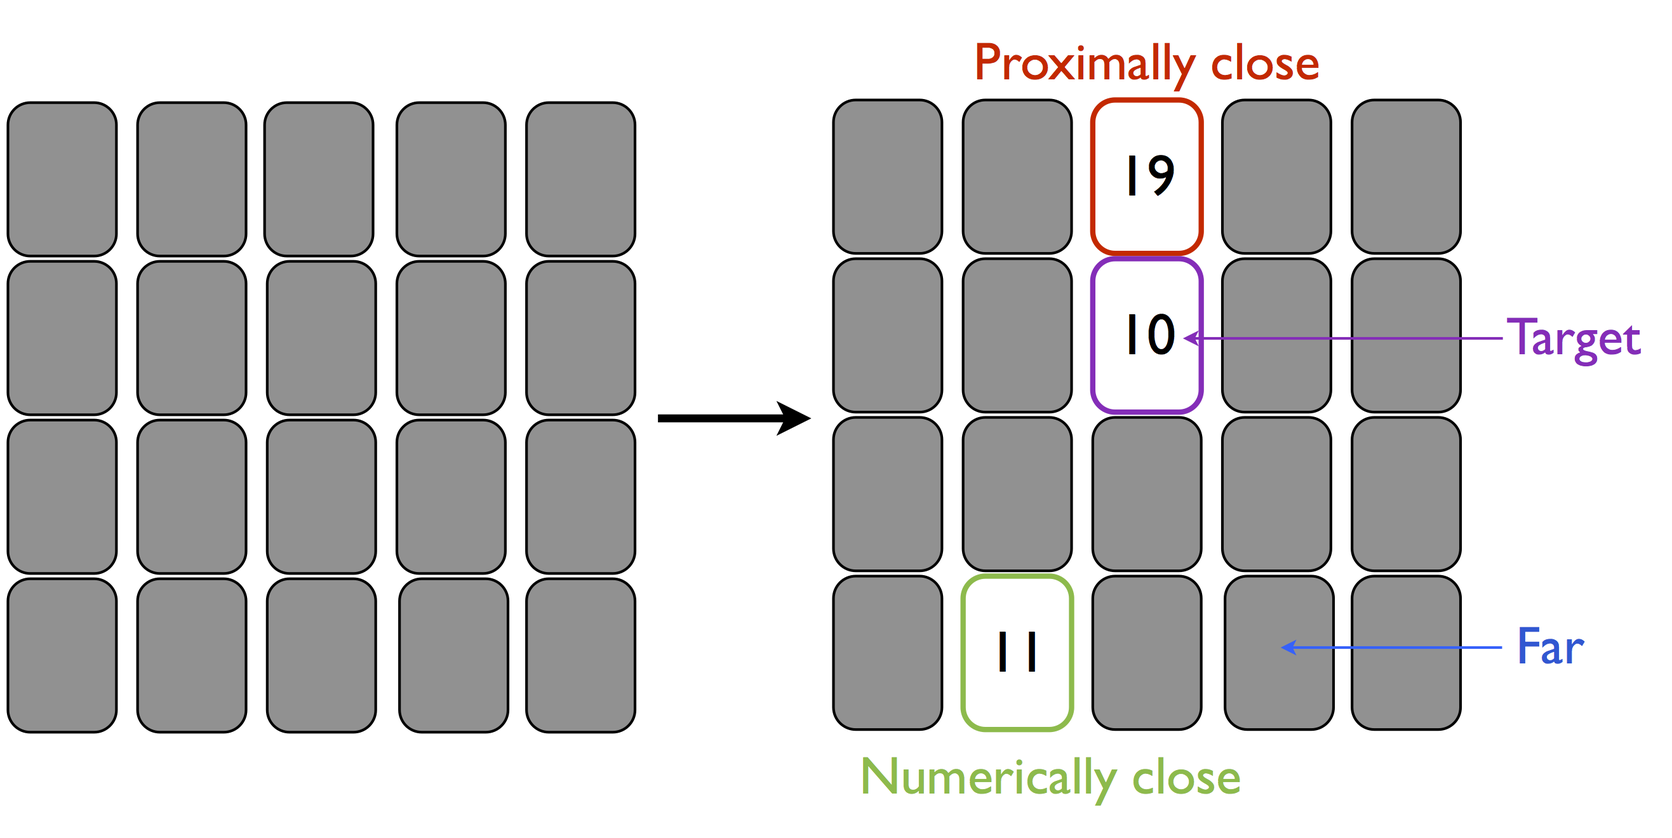
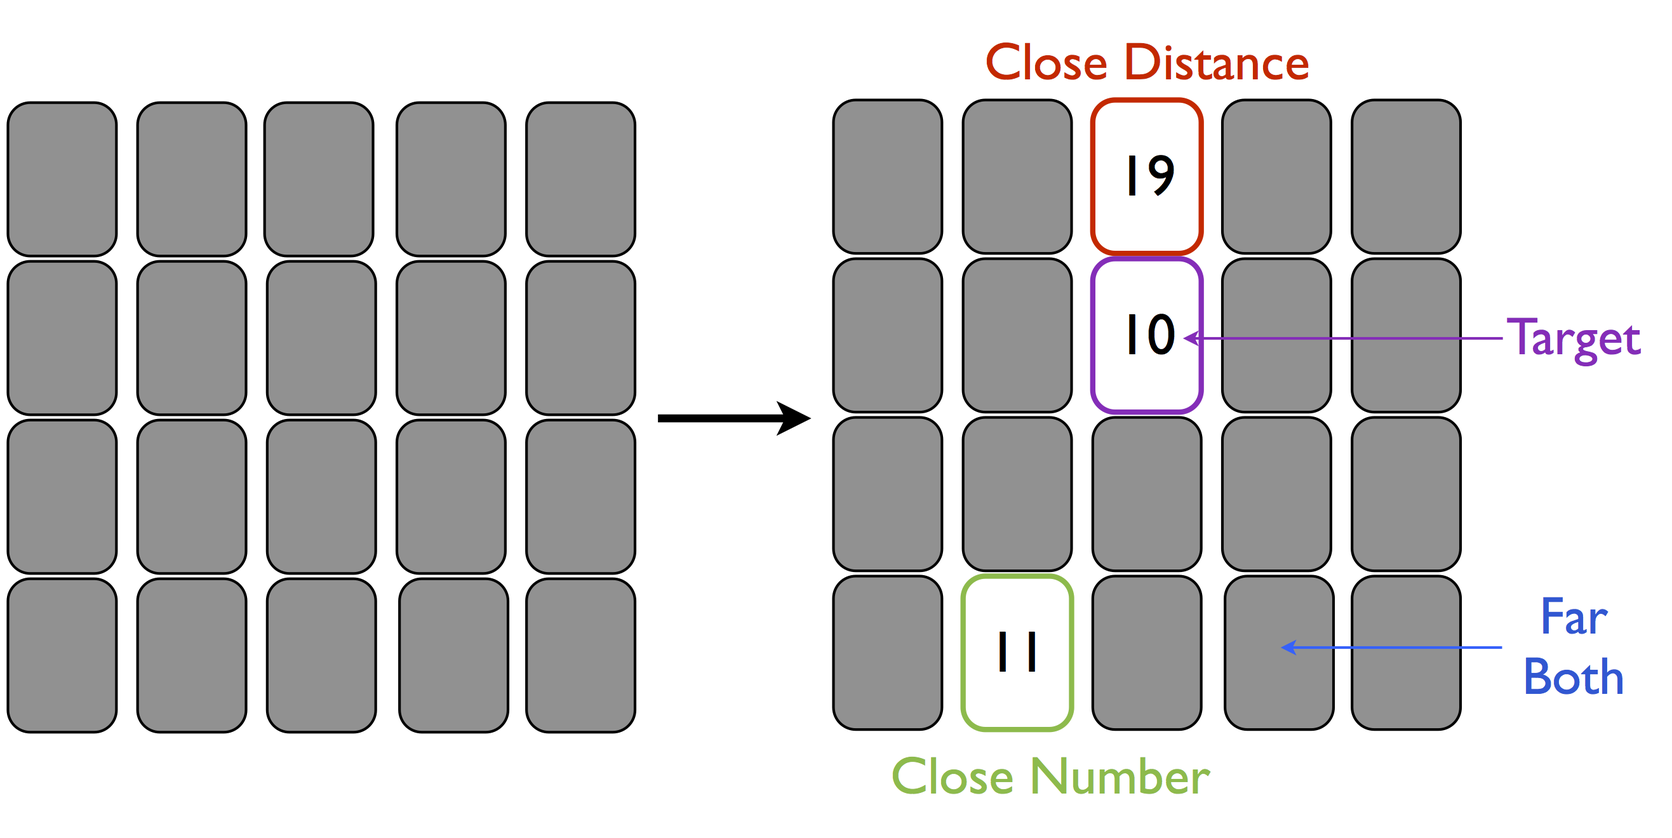
some changes to graphs, still working

Changed region(s): [[0.4983, 0.9008, 0.7474, 0.9629], [0.5606, 0.0311, 0.8097, 0.0932], [0.9032, 0.7144, 0.9654, 0.8386]]

diff --git a/Writeup/cfDistance.tex b/Writeup/cfDistance.tex
@@ -55,7 +55,10 @@
 \maketitle
 
 \begin{abstract}
-Near misses---missing a desired outcome by a small margin---are more emotionally intense than normal misses, even though the outcomes tend to be no different, and people readily accord near-miss effects when reasoning about others. Yet there are still open questions: what are the distance dimensions along which near misses are judged, and how do people incorporate near misses into more general affective cognition, or reasoning about emotion? In this paper we show that intuitive theories of emotion seem to weigh near-misses even for random events, and this is driven by the semblance of action-outcome contingency. Finally, we incorporate near misses into a more general model of affective cognition, and quantify the psychological cost of a near-miss relative to winning and losing.
+Observers often judge agents to be more unhappy when the agents miss a desired outcome by a small margin, compared to a large margin. This has been shown in situations where the agents have control over their situation, such as in missing planes. Here, we show that intuitive theories of emotion incorporate near-misses even for random events, and this might be due in part to the illusion of control over random events. Finally, we integrate near-misses into a more general model of affective cognition, and quantify the psychological cost of a near-miss relative to winning and losing.
+
+
+%Near misses---missing a desired outcome by a small margin---are more emotionally intense than normal misses, even though the outcomes tend to be no different, and people readily accord near-miss effects when reasoning about others. Yet there are still open questions: what are the distance dimensions along which near misses are judged, and how do people incorporate near misses into more general affective cognition, or reasoning about emotion? In this paper we show that intuitive theories of emotion seem to weigh near-misses even for random events, and this is driven by the semblance of action-outcome contingency. Finally, we incorporate near misses into a more general model of affective cognition, and quantify the psychological cost of a near-miss relative to winning and losing.
 
 \textbf{Keywords:} 
 Near Miss; Counterfactual Distance; Lay Theories; Emotion
@@ -67,6 +70,8 @@ Near Miss; Counterfactual Distance; Lay Theories; Emotion
 --- English Idiom
 \end{quote}
 
+Evidence suggests that contrary to the above idiom, close counts---\textit{emotionally}.
+
 
 	When Rob achieves a desired outcome, such as winning a soccer match, we intuitively know that he would feel positive. Conversely, when Rob loses, or otherwise fails to achieve an outcome, we can reason that he would feel negative. If he just fails to achieve the outcome by a small margin, a \textit{near-miss}, such as losing a soccer game by a single goal, we intuitively recognize that he actually would feel worse than if he had missed by a larger margin, because the outcome was ``so close" to winning. Penalty shootouts in soccer provides the most exaggerated of such near-miss scenarios: the losing team often loses because of one missed ball, sometimes an inch shy of escaping the goalkeeper's hands. These details add much more emotional intensity to all agents involved, more so than just a simple loss. Contrary to the above idiom, close counts---\textit{emotionally}.
 
@@ -77,15 +82,15 @@ Near Miss; Counterfactual Distance; Lay Theories; Emotion
 	Psychologists have long known that near-misses form an integral, but surprisingly not well understood part of affective cognition \cite{Johnson1986, Gleicher1990}. Most of this work falls under the broader category of counterfactual thinking, or thinking about ``what might have been" \cite{Bryne2002,McMullen2002, Medvec1997, Roese1997}. Near-miss counterfactuals are particularly engaging, because these possible worlds almost happened: they were separated from the current world by some small ``distance". Consider \citeA{Kahneman1982}'s classic example of Mr Tees, who missed his plane by 5 minutes, and Mr Crane, who missed his plane by 30 minutes. Both men were delayed due to traffic (i.e., it was somewhat out of their control), but people consistently and reliably judge the person who narrowly missed his plane to feel much worse than the one who missed it by a wider margin. One proposed \textit{causally-relevant} explanation for the near miss effect is that of controllability: Mr Tees could easily think of actions he could have done differently (``if only I woke up ten minutes earlier") that would have led to him catching the plane. \red{NDG: controllability isn't explained clearly here, and no alternative is given, so it isn't clear why you mention it.}
 
 
-% Can this paragraph fit here? or should it belong between the end of the Intro and the start of Expt 1, in a section called "Predictions" (that was the way I had it initially).
-	Based upon findings from previous work \cite{Kahneman1982, Johnson1986, Gleicher1990}, we can list several predicted properties of near-miss effects. See Fig. \ref{PredictionFig} for an illustration, where we have included both near-miss and just-hit effects, although we focus on the former in this paper. First, the near-miss effect should be \textit{non-linear} with respect to distance to the desired outcome---the near miss effect should only occur at small distances, and should matter increasingly more with increasingly smaller distances. Second, the magnitude of the near-miss effect should be \textit{small but proportional} to the difference between the desired and undesired outcome.
-\red{NSG: these properties are predicted from your graph, but it's not clear where your graph came from -- it sounds like you're just making them up...}
-
-\begin{figure}[htb!]
-\includegraphics[width=\columnwidth]{images/predictionFig.png}
-\caption{ Prediction. A plot of emotional valence against ``distance" to the counterfactual world, where the unshaded region represents the desired outcome, and the shaded region, the ``miss" region. Near misses and ``just-hits" are predicted to be non-linear variations of valence at small distances to the miss-hit boundary.}
-\label{PredictionFig}
-\end{figure}
+%% Can this paragraph fit here? or should it belong between the end of the Intro and the start of Expt 1, in a section called "Predictions" (that was the way I had it initially).
+%	Based upon findings from previous work \cite{Kahneman1982, Johnson1986, Gleicher1990}, we can list several predicted properties of near-miss effects. See Fig. \ref{PredictionFig} for an illustration, where we have included both near-miss and just-hit effects, although we focus on the former in this paper. First, the near-miss effect should be \textit{non-linear} with respect to distance to the desired outcome---the near miss effect should only occur at small distances, and should matter increasingly more with increasingly smaller distances. Second, the magnitude of the near-miss effect should be \textit{small but proportional} to the difference between the desired and undesired outcome.
+%\red{NSG: these properties are predicted from your graph, but it's not clear where your graph came from -- it sounds like you're just making them up...}
+%
+%\begin{figure}[htb!]
+%\includegraphics[width=\columnwidth]{images/predictionFig.png}
+%\caption{ Prediction. A plot of emotional valence against ``distance" to the counterfactual world, where the unshaded region represents the desired outcome, and the shaded region, the ``miss" region. Near misses and ``just-hits" are predicted to be non-linear variations of valence at small distances to the miss-hit boundary.}
+%\label{PredictionFig}
+%\end{figure}
 
 
 
@@ -159,7 +164,7 @@ Finally, how much does a near-miss cost psychologically? That is, what is the si
 
 
 
-\section{Experiment 1: Dice vignette}
+\section{Experiment 1: Near Miss effects in a random event}
 
 In Experiment 1, we tested if participants would incorporate near-miss effects in their judgment of emotions when agents were playing a luck-based game, where the near-misses are along a causally-irrelevant dimension. Here we used a dice game; because the process of rolling dice is entirely random, the numerical closeness of one's outcome compared to the desired outcome is not relevant. \red{NDG: i tweaked this \P, but should be adjusted based on how we clarify causal relevance in intro.}
 
@@ -167,8 +172,7 @@ In Experiment 1, we tested if participants would incorporate near-miss effects i
 
 \subsubsection{Procedures.} Participants read about two characters, Jacob and Alex, who were playing a gambling game, and both needed to roll a 6 on a die to win. Jacob rolled a 1, while Alex rolled a 5. Participants then answered attention check questions (``what did X roll?") before attributing emotions along six categories (\textit{happiness}, \textit{sadness}, \textit{relief}, \textit{regret}, \textit{contentment} and \textit{disappointment})  to each character. Finally, they answered a three-alternative forced choice question: ``Which character felt worse?", and were allowed to endorse ``they both felt equally bad" as an option. They were allowed to give a free-response justification for their choice.
 
-\subsubsection{Results.} Three participants were excluded for failing the attention check. Participants rated the near miss character (the character who rolled the 5) as feeling significantly more disappointed ($t(146)=2.17, p=0.03$), but no different on the other emotions. In the forced-choice question, a large majority (107/147 = 73\%) rated both characters as feeling equally bad. Among the remaining participants, significantly more participants rated the character who rolled the 5 (the near miss character) as feeling worse (N=30) compared to the character who rolled a 1 (N=10; exact binomial test $p=.002$; bootstrapped simulation with 10,000 iterations on full sample, $p=0.0007$).
-\red{NDG: point to fig 2...}
+\subsubsection{Results.} Three participants were excluded for failing the attention check. Participants rated the near miss character (the character who rolled the 5) as feeling significantly more disappointed ($t(146)=2.17, p=0.03$), but no different on the other emotions. In the forced-choice question, a large majority (107/147 = 73\%) rated both characters as feeling equally bad. Among the remaining participants, significantly more participants rated the character who rolled the 5 (the near miss character) as feeling worse (N=30) compared to the character who rolled a 1 (N=10; exact binomial test $p=.002$; bootstrapped simulation with 10,000 iterations on full sample, $p=0.0007$) (See Fig. \ref{Expt1ResultFig}.)
 
 \begin{figure}[htb!]
 \includegraphics[width=\columnwidth]{images/Expt1results.png}
@@ -189,40 +193,42 @@ Thus, we find that while a large majority of participants said that both charact
 
 \section{Experiment 2: Changing the relevant dimensions}
 
-We designed Experiment 2 to dissociate closeness effects along different dimensions. Using a card guessing task, we manipulated the task-relevance of both the positions of the cards or the numbers written on the cards, and showed that only near-miss effects along the task relevant-dimension are incorporated into observers' lay theory of emotion. \red{NDG: contrary to expt 1??}
+We designed Experiment 2 to dissociate closeness effects along different dimensions. Using a card guessing task, we manipulated the task-relevance of both the positions of the cards or the numbers written on the cards, and showed that near-miss effects along the task relevant-dimension are more strongly incorporated into observers' lay theory of emotion. %\red{NDG: contrary to expt 1??}
 
-\subsubsection{Participants.} We recruited 300 participants through Amazon's Mechanical Turk, and assigned them to one of three conditions: Single-Step-Position (\textit{Pos}; N=100), Single-Step-Number (\textit{Num}; N=100), and Two-Step-Position (\textit{Two-Pos}; N=100).
+\subsubsection{Participants.} We recruited 200 participants through Amazon's Mechanical Turk, and assigned them to one of two conditions: Position-relevant (\textit{Pos}; N=100) and Number-relevant (\textit{Num}; N=100)
+%, and Two-Step-Position (\textit{Two-Pos}; N=100).
 
 
 \subsubsection{Procedures.} 
 
 \begin{figure}[htb!]
 \includegraphics[width=\columnwidth]{images/card_paradigm.png}
-\caption{ Expt 2 Paradigm, \textit{Pos} condition. Characters' goal is to pick the target card, 10, outlined in purple. In the critical trial, the characters pick 19, in red, which is \textbf{Proximal}ly close, and 11, in green, which is \textbf{Numerical}ly close. In other trials, one of the cards picked might be the number 1 (indicated by the blue arrow), which is \textbf{Far} on both proximity and numerosity. }
+\caption{ Expt 2 Paradigm, \textit{Pos} condition. Characters' goal is to pick the target card, 10, outlined in purple. In the critical trial, the characters pick 19, in red, which is \textbf{close} in \textbf{distance}, and 11, in green, which is \textbf{close} in \textbf{number}. In other trials, one of the cards picked might be the number 1 (indicated by the blue arrow), which is \textbf{Far} in both distance and number. }
 \label{Expt2ParadigmFig}
 \end{figure}
 
 \red{NDG: it's hard to follow this section because the condition labels, etc are cryptic. how about ``close distance'', ``far both'', ``close number''. and ``position relevant'', ``number relevant''? or something that ties more closely to control -- here it's controllability i think, not simple relevance?}
-In the Single-Step-Position (\textit{Pos}) condition, participants saw a 5x4 array of cards face down. They were told that two characters were playing a game: the cards were numbered 1-20, and they had to pick the number 10 to win. There were three possible characters (of which participants only saw two): Scott, who picked 19 (proximally-close), Frank, who picked 11 (numerically-close), and David, who picked 1 (far). For example, in the trial depicted in Fig. \ref{Expt2ParadigmFig}, participants saw the proximally-close participant and the numerically-close participant. After the characters picked their cards, the winning number 10 is revealed. Participants then rated the emotions of the two characters they saw (along the same six emotions as Expt 1). Finally, participants answered a forced-choice question, ``Who felt worse?", with the option to say ``Both felt equally bad." In total there are 3 possible pairings (``Proximal vs. Numerical", ``Proximal vs. Far", and ``Numerical vs. Far"), which are all between subject manipulations. Each participant only saw one trial.
+
+In the Position-relevant (\textit{Pos}) condition, participants saw a 5x4 array of cards face down. They were told that two characters were playing a game: the cards were numbered 1-20, and they had to pick the number 10 to win. There were three possible characters (of which participants only saw two): Scott, who picked 19 (close distance), Frank, who picked 11 (close number), and David, who picked 1 (far both). For example, in the trial depicted in Fig. \ref{Expt2ParadigmFig}, participants saw the close distance character and the close number character. After the characters picked their cards, the winning number 10 is revealed. Participants then rated the emotions of the two characters they saw (along the same six emotions as Expt 1). Finally, participants answered a forced-choice question, ``Who felt worse?", with the option to say ``Both felt equally bad." In total there are 3 possible pairings (``Close Distance vs. Close Number", ``Close Distance vs. Far Both", and ``Close Number vs. Far Both"), which are all between subject manipulations. Each participant only saw one trial.
 
 
 
-In the Single-Step-Number (\textit{Num}) condition, we changed the rules of the game. There were 19 blank cards, and a target card (circled in purple). Characters were assigned a blank card and had to guess what the number was behind the target card, writing their answers on their assigned blank card. Thus, in the \textit{Pos} condition, the number of the goal was known (10) while the position was unknown, characters picked a position and were assigned a number (based on their choice); in this \textit{Num} condition, the position of the goal was known, but the number was unknown, and characters were assigned a position and picked a number. Importantly, the visual description that participants saw is similar to the Position conditions. Thus, after characters wrote their guesses, the winning number behind the purple card is revealed (to be 10). Participants then attributed emotions to the two characters, and made a forced-choice judgment about who felt worse.
+In the Number-relevant (\textit{Num}) condition, we changed the rules of the game. There were 19 blank cards, and a target card (circled in purple). Characters were assigned a blank card and had to guess what the number was behind the target card, writing their answers on their assigned blank card. Thus, in the \textit{Pos} condition, the number of the goal was known (10) while the position was unknown, characters picked a position and were assigned a number (based on their choice); in this \textit{Num} condition, the position of the goal was known, but the number was unknown, and characters were assigned a position and picked a number. Importantly, the visual description that participants saw is similar to the Position-relevant condition. Thus, after characters wrote their guesses, the winning number behind the purple card is revealed (to be 10). Participants then attributed emotions to the two characters, and made a forced-choice judgment about who felt worse.
 
-\red{NDG: the Two-Pos condition is hard to follow.}
-The Two-Step-Position (\textit{Two-Pos}) condition was similar to the \textit{Pos} condition, except that after characters picked their cards but \textit{before} the winning card is revealed, participants make one set of emotion attributions and one forced-choice on who felt worse. Following this, the winning number 10 is revealed, and then participants make another set of attributions. Hence, participants in this condition made two sets of attributions, one before the location of the winning card is revealed (\textit{Two-Pos-BeforeReveal}), and once after (\textit{Two-Pos-AfterReveal}).
+%\red{NDG: the Two-Pos condition is hard to follow.}
+%The Two-Step-Position (\textit{Two-Pos}) condition was similar to the \textit{Pos} condition, except that after characters picked their cards but \textit{before} the winning card is revealed, participants make one set of emotion attributions and one forced-choice on who felt worse. Following this, the winning number 10 is revealed, and then participants make another set of attributions. Hence, participants in this condition made two sets of attributions, one before the location of the winning card is revealed (\textit{Two-Pos-BeforeReveal}), and once after (\textit{Two-Pos-AfterReveal}).
 
 
 \subsubsection{Predictions.}
-We predicted that in the \textit{Pos} condition, proximity would be judged to be a more relevant dimension of closeness than numerosity, and so the proximally-close character would be judged to feel worse than the numerically-close character, although the numerically-close character would, to a lesser extent, be judged to feel worse than the character who chose the numerically and proximally far card. In the \textit{Num} condition, on the other hand, proximity is irrelevant, and so we predicted that the numerically close character would be judged to feel the worst, and there would be no difference between the proximally close character and the far character. \red{NDG: why?? this doesn't seem to follow from any theory laid out so far in the paper.}
+We predicted that in the \textit{Pos} condition, proximity would be judged to be a more relevant dimension of closeness than numerosity, and so the close distance character would be judged to feel worse than the close number character, although the close number character would, to a lesser extent, be judged to feel worse than the character who chose the far card. In the \textit{Num} condition, on the other hand, proximity is irrelevant, and so we predicted that the close number character would be judged to feel the worst, and there would be no difference between the close distance character and the far character. \red{NDG: why?? this doesn't seem to follow from any theory laid out so far in the paper.}
 
-The \textit{Two-Pos} condition has an interesting twist. Prior to finding out the position of the winning card, position is still a more relevant dimension than numerosity because of the context, but participants do not yet know the position of the winning card, which makes it impossible to judge closeness based on proximal distance. In this attribution, observers should make judgements based on numerosity. There would also be no difference between the proximally close and the far characters, and we predicted that the numerically close character will be judged to feel the worse of them all (i.e., \textit{Two-Pos-BeforeReveal} results should be similar to \textit{Num}). However, after finding out the position of the winning card, proximal closeness becomes possible to judge, and so we should expect to see the proximally close character being judged as feeling the worst (\textit{Two-Pos-AfterReveal} results should be similar to \textit{Pos}).
+%The \textit{Two-Pos} condition has an interesting twist. Prior to finding out the position of the winning card, position is still a more relevant dimension than numerosity because of the context, but participants do not yet know the position of the winning card, which makes it impossible to judge closeness based on proximal distance. In this attribution, observers should make judgements based on numerosity. There would also be no difference between the proximally close and the far characters, and we predicted that the numerically close character will be judged to feel the worse of them all (i.e., \textit{Two-Pos-BeforeReveal} results should be similar to \textit{Num}). However, after finding out the position of the winning card, proximal closeness becomes possible to judge, and so we should expect to see the proximally close character being judged as feeling the worst (\textit{Two-Pos-AfterReveal} results should be similar to \textit{Pos}).
 
 
 
 \begin{figure}[htb!]
 \includegraphics[width=\columnwidth]{images/cardCombined_forcedWorse.png}
-\caption{ Expt 2 Results. Proportions of forced choice response. Error bars indicate standard errors. Top row: \textit{Pos} condition. 2nd row: \textit{Num}. 3rd row: \textit{Two-Pos} condition, before card is revealed. Last row: \textit{Two-Pos} condition, after card is revealed. See text for details.}
+\caption{ Expt 2 Results. Proportions of forced choice response. Error bars indicate standard errors. Top row: \textit{Pos}ition-relevant condition. Bottom row: \textit{Num}ber-relevant condition.}
 \label{Expt2ResultFig}
 \end{figure}
 
@@ -279,7 +285,7 @@ which we added to the model in Eqn. \ref{PEModel}. To illustrate, for the result
 
 We fit a linear mixed-effects model with the amount won, PE, absPE, and the Near Miss (NM) term (Eqn. \ref{PEModel}, \ref{NMRegressor}) as fixed effects, and random intercepts by participant, wheel, and experiment. There is a significant slope on the NM term ($b = \text{-}3.5 * 10^{\text{-}5}, t(682)=\text{-}2.80, p=0.005$) on happiness. To understand the effect size of this term, let us consider the slope on win ($b = 0.0405, t(682) = 7.08, p<.0001$), PE ($b=0.036, t(682)=5.86, p<.0001$), and absPE ($b=\text{-}0.015, t(682) = \text{-}2.83, p=.005$) and the example in Figure \ref{Expt3ParadigmFig}. Not considering the near miss effect, and all else being equal, if the result had changed from \$60 to \$100, there will be an \textit{increase} in happiness due to $win$, $PE$ and $absPE$ of $40*(.0405+0.036+(\text{-}0.015)) = 2.46$ points on a 9 point Likert scale. In contrast, if we moved from the center of the \$60 sector to a distance of .01 (1\% of the sector size) away from the \$60/\$100 boundary, there would be a \textit{decrease} in happiness of $40*(1/0.5 - 1/0.01)*(\text{-}3.5 * 10^{\text{-}5}) = 0.137$ points on a 9 point scale. Thus, in this gambling scenario, the effect of a near miss on subjective happiness attributed is on the order of 5\% of the relative utility of winning the next higher amount. Getting a near miss on the \$60 wheel in Fig. \ref{Expt3ParadigmFig} and narrowly missing the sector \$100 (narrowly missing winning \$40 more) has a subjective cost equivalent to losing about \$2. This is a small effect relative to actually winning, yet it is  a large and not insignificant effect considering that this effect does not depend on changing actual payoffs, but relative closeness. Consider too, that this is a stylized game of chance, with fictional characters and hypothetical gambles, which all might lead to underestimating the size of the true effect in real-life situations like missing planes.
 
-\red{NDG: i like this result. clear, understandable, and contextualized. it may be that we'll want to include it in our psych rev revisions...}
+%\red{NDG: i like this result. clear, understandable, and contextualized. it may be that we'll want to include it in our psych rev revisions...}
 
 \section{Discussion}
 
